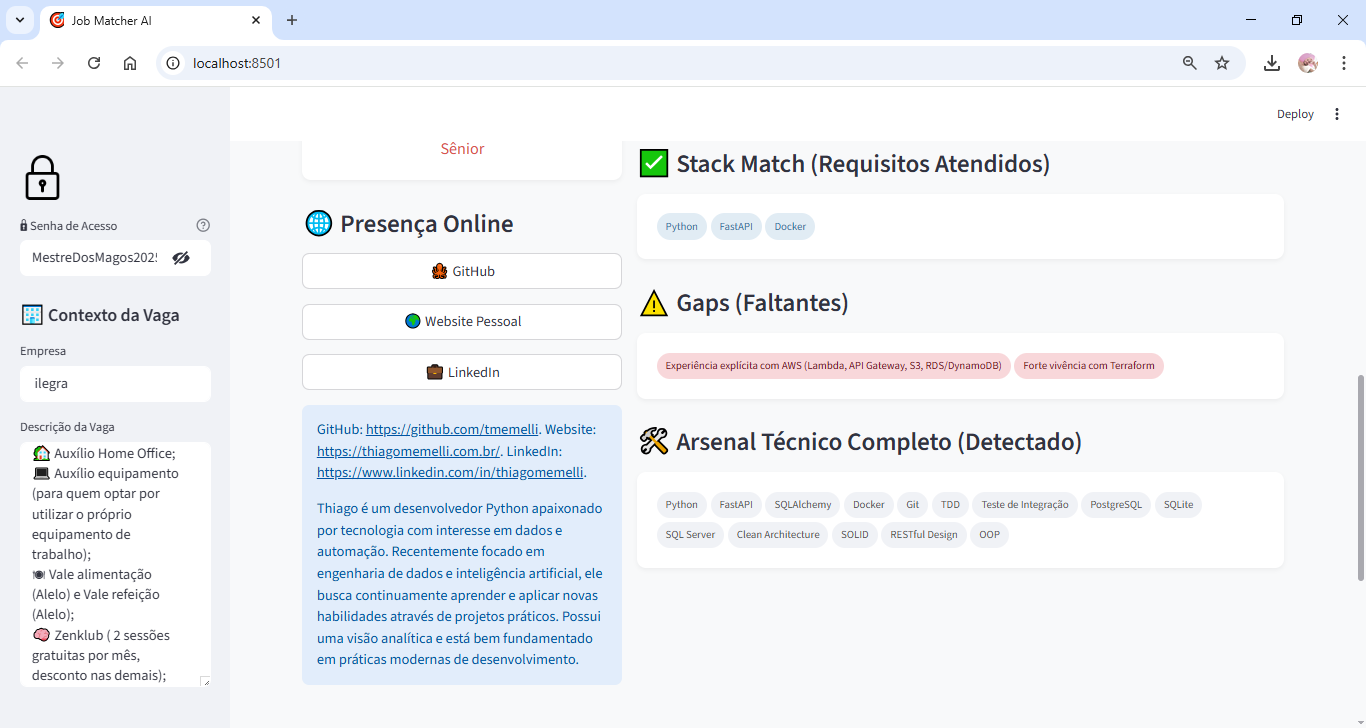
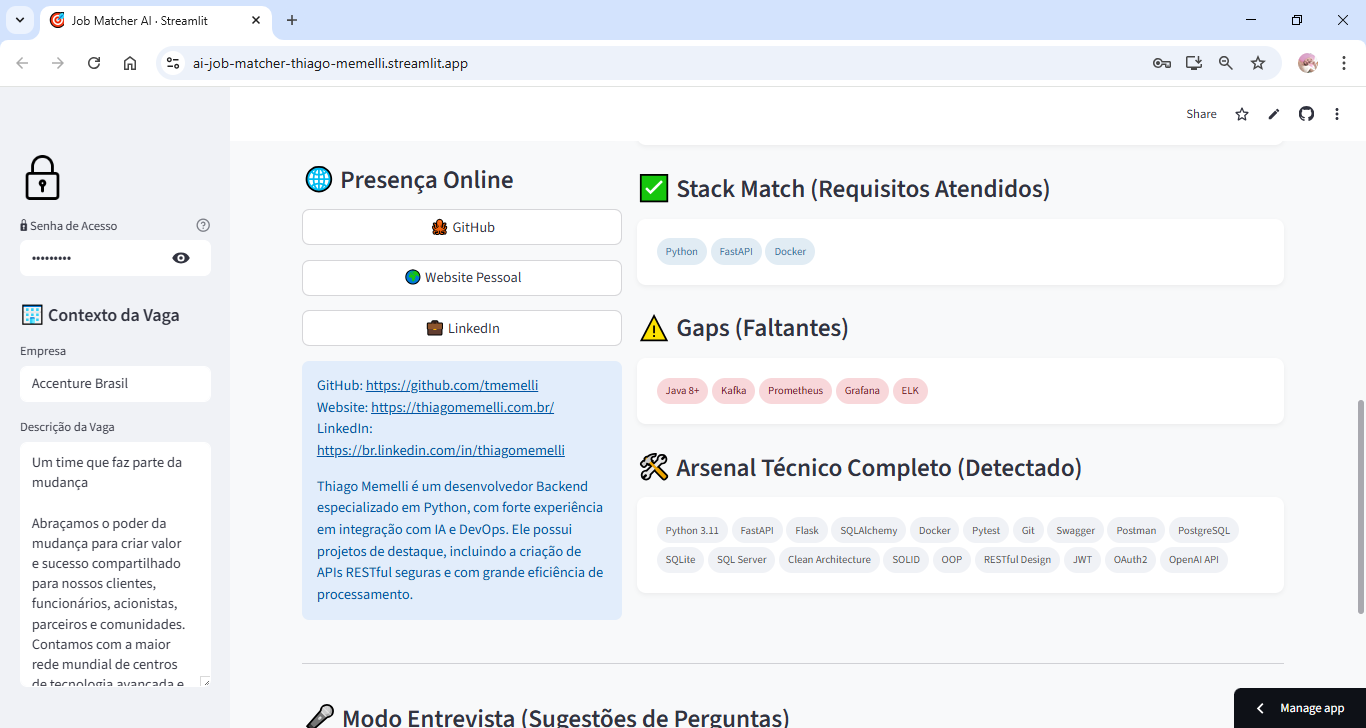
fix: busca LinkedIn otimizada + extração de website do GitHub

diff --git a/src/agent.py b/src/agent.py
@@ -425,7 +425,7 @@ def analyze_candidate_with_tools(
     # Objetivo: Enriquecer o perfil com dados do GitHub e Web
     # Ferramentas: fetch_github_profile() e search_candidate_online()
     # ==========================================================================
-    
+        
     # --- 2.1: Inicialização das variáveis ---
     github_data = {}  # Dados brutos da API do GitHub
     github_data_context = "Perfil GitHub não encontrado."  # Texto para o prompt
@@ -433,8 +433,21 @@ def analyze_candidate_with_tools(
     # URLs que serão extraídas para exibição na interface
     github_profile_url = None  # Ex: https://github.com/tmemelli
     github_website = None      # Campo 'blog' do perfil GitHub (website pessoal)
+
+    # --- 2.2: Busca na Web (LinkedIn, artigos, etc.) ---
+    # Usa Tavily API (ou DuckDuckGo como fallback) para buscar
+    # presença online do candidato
+    web_search_context = search_candidate_online(candidate_name)
+    # Tentamos descobrir o GitHub via Web se não veio do PDF
+    if not github_user or github_user.lower() in ["none", "null", ""]:
+        print("⚠ GitHub não encontrado no PDF. Tentando descobrir via Web Search...")
+        # Procura por github.com/username nos resultados do Tavily
+        found_github = re.search(r'github\.com/([a-zA-Z0-9_-]+)', web_search_context)
+        if found_github:
+            github_user = found_github.group(1)
+            print(f"✅ GitHub descoberto via Web: {github_user}")
     
-    # --- 2.2: Busca no GitHub (se username foi encontrado) ---
+    # --- 2.3: Busca no GitHub (se username foi encontrado) ---
     # Verifica se o username não é vazio, "none" ou "null"
     if github_user and github_user.lower() not in ["none", "null", ""]:
         
@@ -472,11 +485,6 @@ def analyze_candidate_with_tools(
             # Se falhar, apenas loga o erro e continua
             # O sistema ainda funciona sem dados do GitHub
             print(f"   ❌ Erro: {e}")
-    
-    # --- 2.3: Busca na Web (LinkedIn, artigos, etc.) ---
-    # Usa Tavily API (ou DuckDuckGo como fallback) para buscar
-    # presença online do candidato
-    web_search_context = search_candidate_online(candidate_name)
 
     # ⭐ LÓGICA DE INTELIGÊNCIA DE LINK:
     # ⭐ Extrair LinkedIn do resultado da busca web
